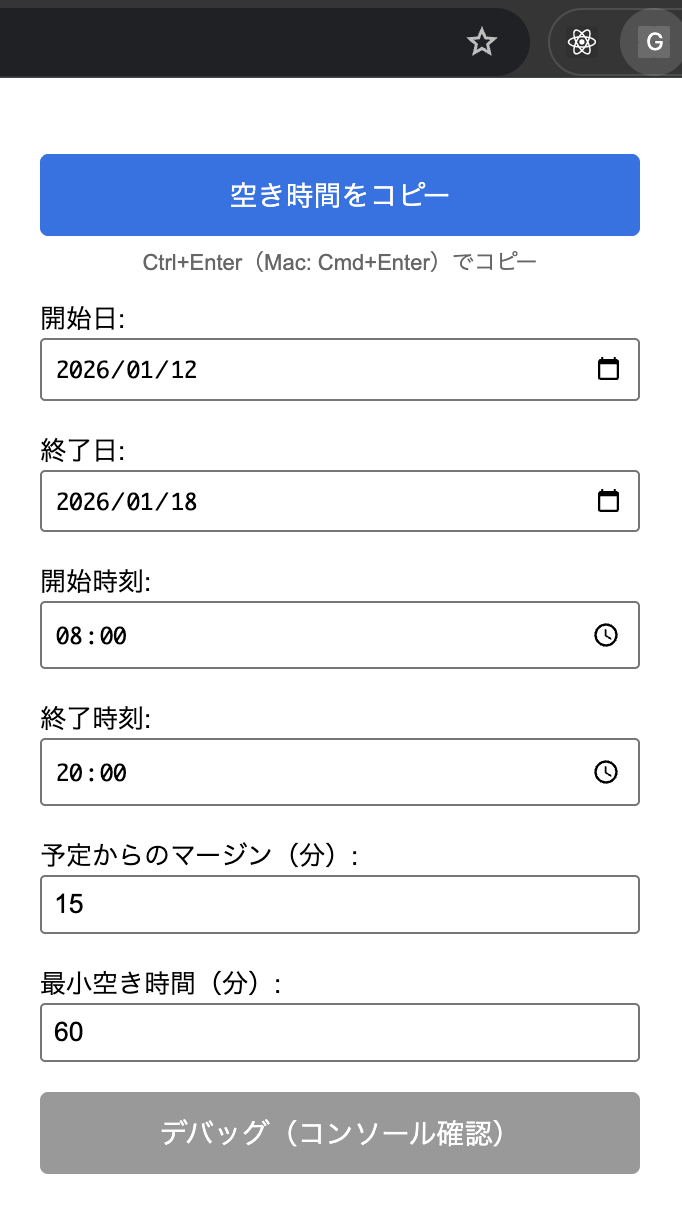
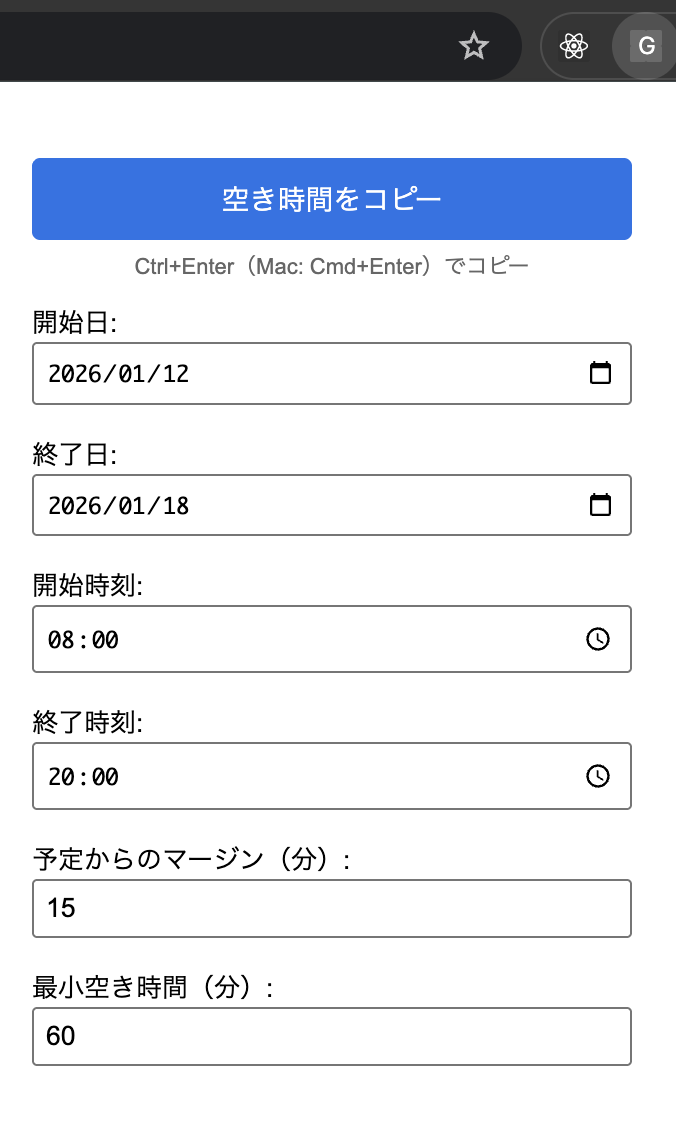
rev: image-v2

diff --git a/popup.html b/popup.html
@@ -43,7 +43,7 @@
   <label>終了時刻: <input type="time" id="endTime" value="20:00" /></label>
   <label>予定からのマージン（分）: <input type="number" id="margin" value="15" min="0" /></label>
   <label>最小空き時間（分）: <input type="number" id="minFreeTime" value="60" min="0" placeholder="x分以下の空き時間は表示しない" /></label>
-  <button id="debug" style="margin-top: 5px; background-color: #999;">デバッグ（コンソール確認）</button>
+  <!-- <button id="debug" style="margin-top: 5px; background-color: #999;">デバッグ（コンソール確認）</button> -->
   <script src="popup.js"></script>
 </body>
 </html>
